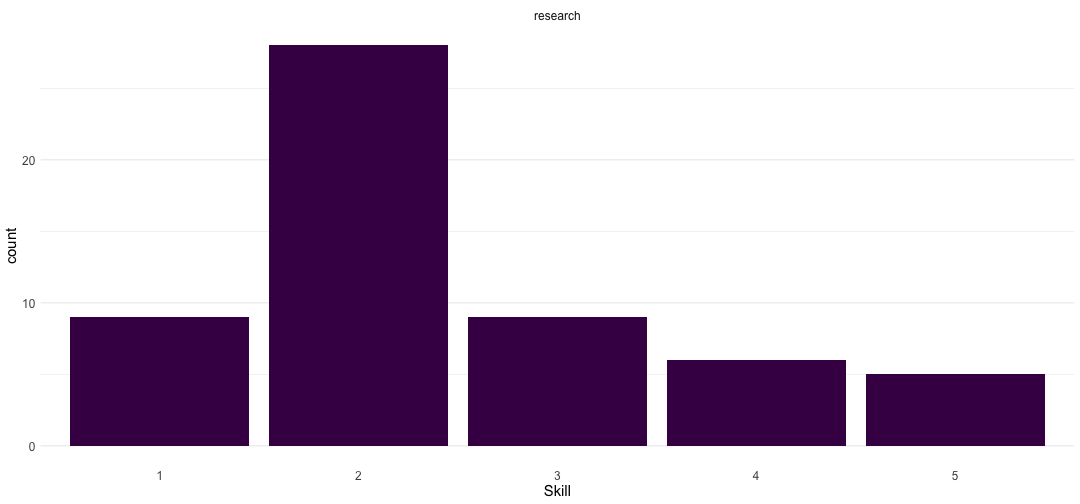
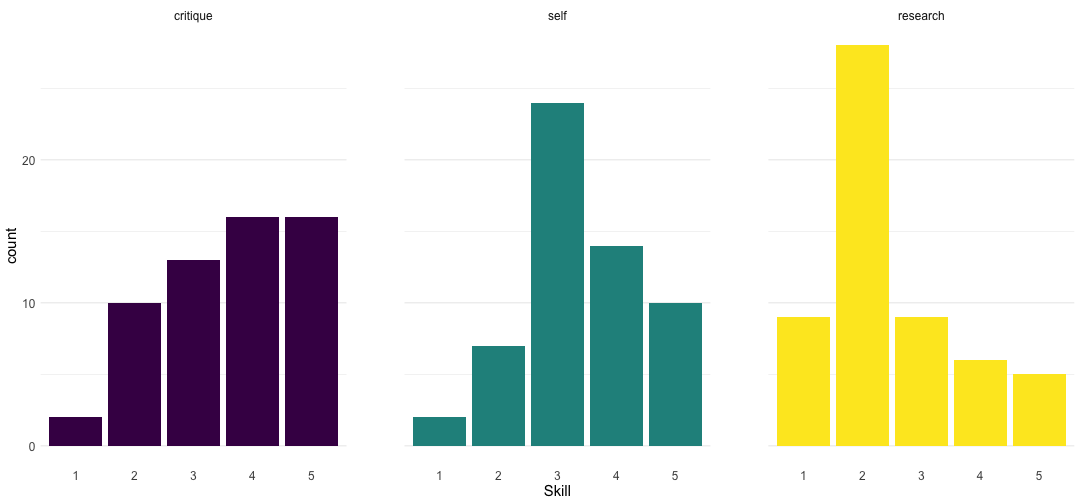
update for monday

diff --git a/docs/index.html b/docs/index.html
@@ -3,7 +3,7 @@
   <head>
     <title>Kompetenzen im Geschichtsstudium</title>
     <meta charset="utf-8" />
-    <meta name="author" content="Dr. Eva Brugger (@labruggere), Jonas Plüss (@JoPluess)" />
+    <meta name="author" content="Dr. Eva Brugger (@labruggere)" />
     <link href="libs/remark-css-0.0.1/robot-fonts.css" rel="stylesheet" />
     <link rel="stylesheet" href="more.css" type="text/css" />
   </head>
@@ -13,9 +13,9 @@ class: center, middle, inverse, title-slide
 
 # <p>Kompetenzen im Geschichtsstudium</p>
 ## Umfrage unter BA-Studierenden an der UZH
-### Dr. Eva Brugger (<span class="citation">@labruggere</span>), Jonas Plüss (<span class="citation">@JoPluess</span>)
+### Dr. Eva Brugger (<span class="citation">@labruggere</span>)
 ### Universität Zürich
-### 02. November 2020
+### 02. November 2020/01.November 2021
 
 ---
 
@@ -26,7 +26,11 @@ class: center, middle, inverse, title-slide
 ## Umfrage
 
 - Onlineumfrage unter BA-Studierenden der UZH im HS 2020
+
+
 - 58 Teilnehmer*innen
+
+
 - Umfragezeitraum: 1.-10. Oktober 2020
 
 
@@ -34,57 +38,84 @@ class: center, middle, inverse, title-slide
 ---
 
 
-## Kompetenzen
 
-Kompetenzen | Mittelwert
- -------- |  ----------
-Vorbereitung |
-Lesen | 
-Lesen fremdsprachiger Texte |
-Arbeiten im Team | 
-Kritische Postitionen entwickeln|
-Selbstständiges Arbeiten |
-Forschungsfragen entwickeln |
 
----
+## Relevante Schulfächer
 
-## Durchschnittliche Einschätzung der an der Schule erworbenenen Fähigkeiten
 
+.center2[
 ![](index_files/figure-html/unnamed-chunk-2-1.png)&lt;!-- --&gt;
+]
+
+
+
 
 
 ---
 
 
-## Häufigkeiten der Antworten im Bezug auf Lesen
+## Vorbereitung aufs Geschichtsstudium allgemein
 
 ![](index_files/figure-html/unnamed-chunk-3-1.png)&lt;!-- --&gt;
 
 ---
 
 
-## Häufigkeiten der Antworten im Bezug auf Arbeiten im Team
+
+## Lesekompetenzen und Teamfähigkeit
 
 ![](index_files/figure-html/unnamed-chunk-4-1.png)&lt;!-- --&gt;
 
 ---
 
-## Häufigkeiten der Antworten im Bezug auf wissenschaftliches Arbeiten
+  
+## Wissenschaftliches Arbeiten
 
 ![](index_files/figure-html/unnamed-chunk-5-1.png)&lt;!-- --&gt;
----
 
 
-## Wordcloud
-
-
-.center2[
-![](index_files/figure-html/unnamed-chunk-6-1.png)&lt;!-- --&gt;
-]
 
 
 ---
 
+
+
+## Qualitative Antworten: Was fehlt?
+
+- Methodisches Arbeiten
+  - Selbstständiges Arbeiten
+  - Exzerpieren
+  - Lese- und Schreibtechniken (lange, komplexe Texte schnell lesen)
+  - Quellen- und Literaturecherche
+
+  
+  
+- Analytische Perspektiven
+  - eigene Positionen entwickeln
+  - Entwicklung von Forschungsfragen
+  - Textargumentation freilegen
+  - Quellen- und Literaturkritik
+  
+  
+
+
+---
+
+
+## Perspektive als Dozent*in
+
+- Methodisches Arbeiten
+  - Wissenschaftliche Methoden sind Bestandteil des Studiums (Maturaarbeit als Chance)
+  - Lese- und Schreibtechniken (Ausdruck, Rechtschreibung)
+  - Grundkompetenzen in digitalen und quantitativen Methoden
+
+
+- Analytische Perspektiven
+  - Eigene Positionen entwickeln
+  - Kritischer Umgang mit Material und Meinungen
+
+
+---
 
 
 ## Qualitative Antworten: Was fehlt?
@@ -121,6 +152,11 @@ Forschungsfragen entwickeln |
 
 
 ---
+
+
+## Durchschnittliche Einschätzung der an der Schule erworbenenen Fähigkeiten
+
+![](index_files/figure-html/unnamed-chunk-7-1.png)&lt;!-- --&gt;
     </textarea>
 <style data-target="print-only">@media screen {.remark-slide-container{display:block;}.remark-slide-scaler{box-shadow:none;}}</style>
 <script src="https://remarkjs.com/downloads/remark-latest.min.js"></script>
